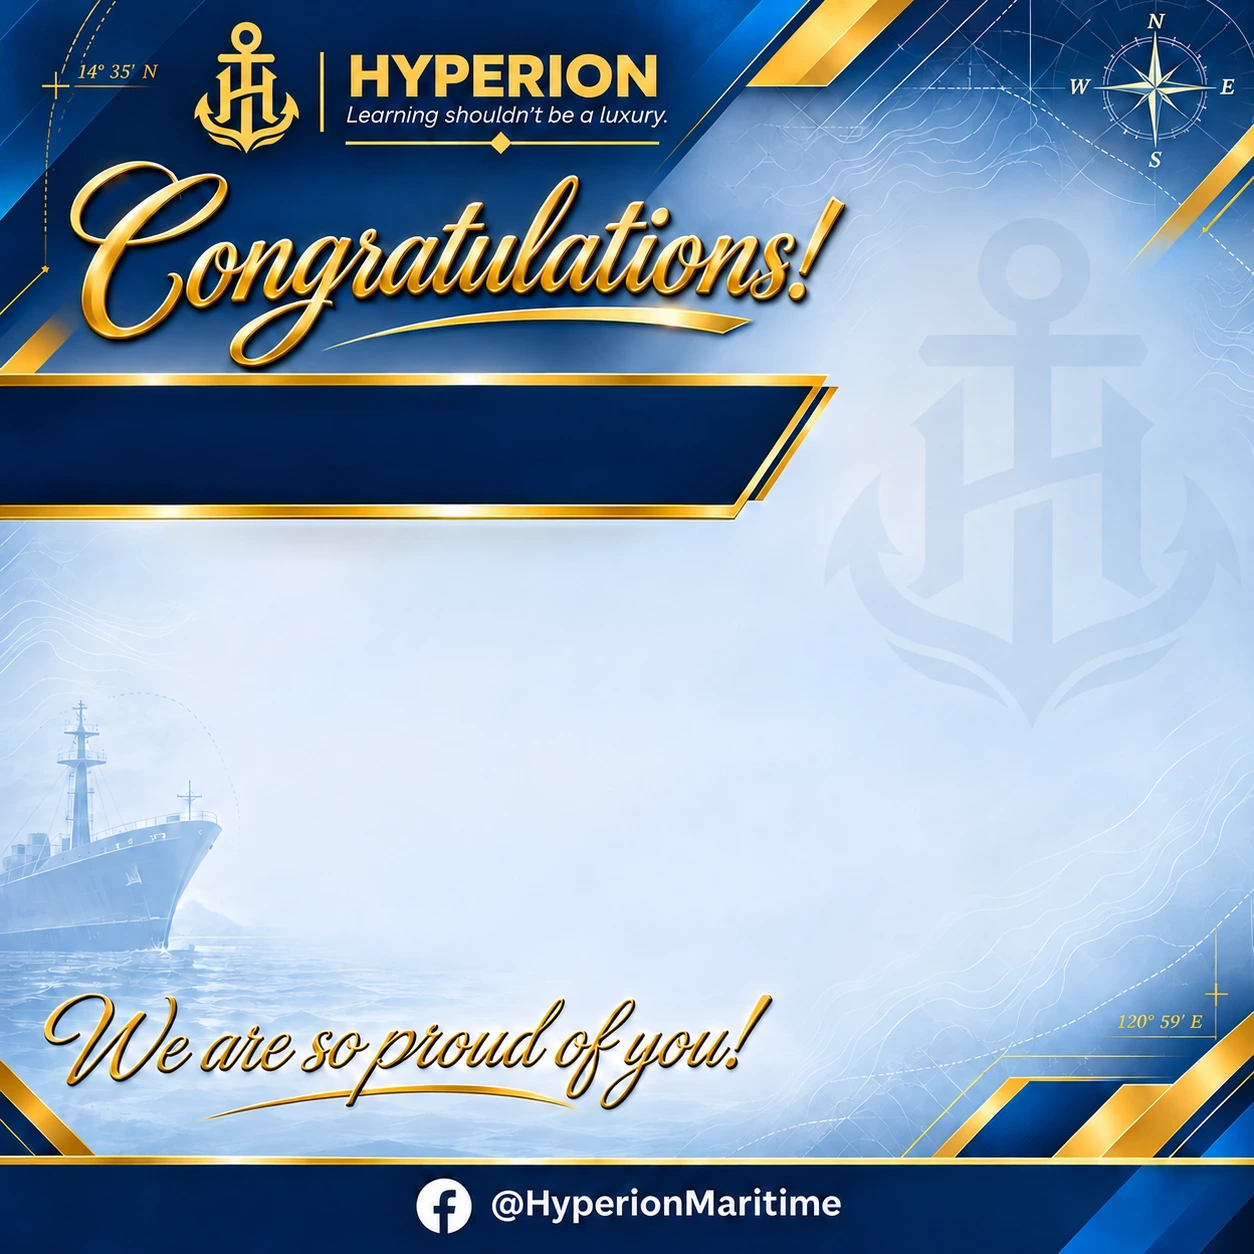
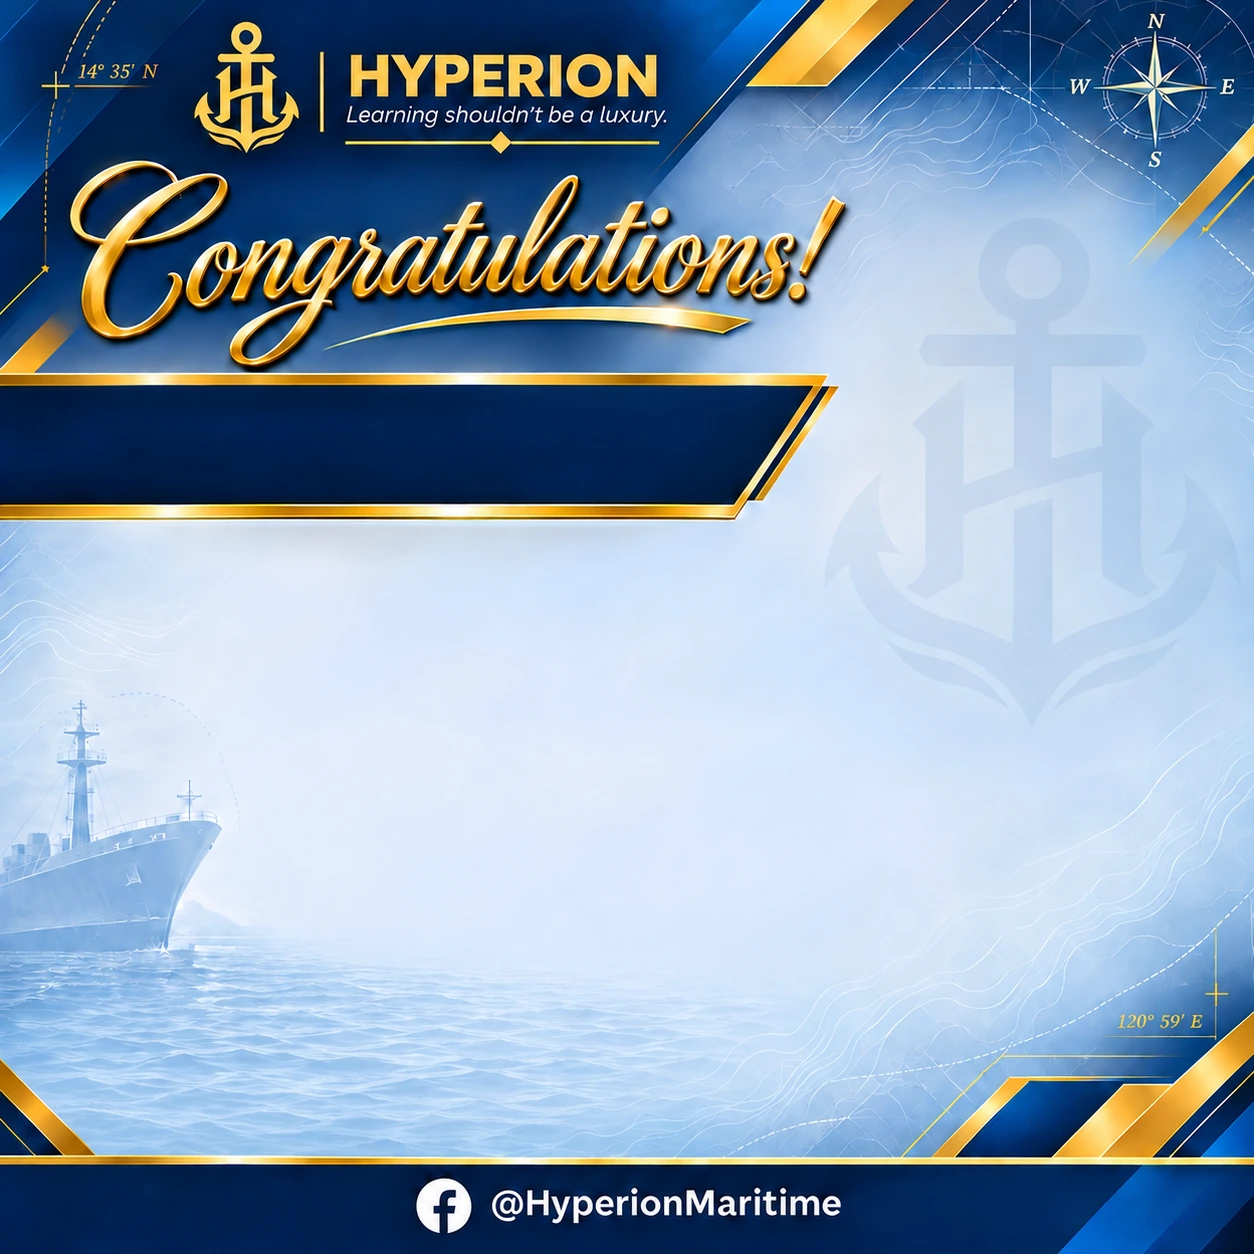
Match the poster portrait fade, closing script and footer to the reference

diff --git a/src/lib/renderPoster.ts b/src/lib/renderPoster.ts
@@ -19,13 +19,26 @@ export type PosterContent = {
   yOffsetPercent: number
 }
 
-export function loadPosterArtwork(): Promise<HTMLImageElement> {
+export type PosterArtwork = {
+  background: HTMLImageElement
+  closingMessage: HTMLImageElement
+}
+
+function loadArtworkImage(src: string): Promise<HTMLImageElement> {
   return new Promise((resolve, reject) => {
     const image = new Image()
     image.onload = () => resolve(image)
     image.onerror = () => reject(new Error('Could not load Hyperion artwork. Refresh the page.'))
-    image.src = '/posters/hyperion-poster-artwork.webp'
+    image.src = src
   })
+}
+
+export async function loadPosterArtwork(): Promise<PosterArtwork> {
+  const [background, closingMessage] = await Promise.all([
+    loadArtworkImage('/posters/hyperion-poster-artwork.webp'),
+    loadArtworkImage('/posters/hyperion-poster-closing-message.webp'),
+  ])
+  return { background, closingMessage }
 }
 
 function drawFittedText(ctx: CanvasRenderingContext2D, text: string, options: {
@@ -154,6 +167,11 @@ function drawPortrait(ctx: CanvasRenderingContext2D, portrait: HTMLImageElement,
   addPortraitFeather(lowerFade, false)
   layerCtx.fillStyle = lowerFade
   layerCtx.fillRect(0, 0, ART_SIZE, ART_SIZE)
+  // Follow the diagonal of the lower-right trim as the shirt meets the sea.
+  const cornerFade = layerCtx.createLinearGradient(1060, 1060, 1118, 1118)
+  addPortraitFeather(cornerFade, false)
+  layerCtx.fillStyle = cornerFade
+  layerCtx.fillRect(0, 0, ART_SIZE, ART_SIZE)
   layerCtx.globalCompositeOperation = 'source-over'
   ctx.drawImage(layer, 0, 0)
 }
@@ -191,51 +209,55 @@ function drawPosterDividers(ctx: CanvasRenderingContext2D) {
 }
 
 function drawFooter(ctx: CanvasRenderingContext2D) {
+  const top = 1166
+  const centerY = 1210
   ctx.fillStyle = '#071d3d'
-  ctx.fillRect(0, 1166, ART_SIZE, 88)
-  ctx.fillStyle = '#f3bc4a'
-  ctx.fillRect(0, 1161, ART_SIZE, 5)
+  ctx.fillRect(0, top, ART_SIZE, ART_SIZE - top)
+  const divider = ctx.createLinearGradient(0, top - 5, 0, top)
+  divider.addColorStop(0, '#fff1ba')
+  divider.addColorStop(0.5, '#e8ae36')
+  divider.addColorStop(1, '#a96c10')
+  ctx.fillStyle = divider
+  ctx.fillRect(0, top - 5, ART_SIZE, 5)
 
-  // White Facebook badge and website globe, matching the supplied final sample.
   ctx.beginPath()
-  ctx.arc(85, 1212, 24, 0, Math.PI * 2)
+  ctx.arc(135, centerY, 27, 0, Math.PI * 2)
   ctx.fillStyle = '#fff'
   ctx.fill()
   ctx.fillStyle = '#071d3d'
   ctx.textAlign = 'center'
-  ctx.font = 'bold 44px Arial, sans-serif'
-  ctx.fillText('f', 85, 1230)
+  ctx.font = 'bold 46px Arial, sans-serif'
+  ctx.fillText('f', 135, centerY + 19)
+
+  const globeX = 711
+  ctx.strokeStyle = '#fff'
+  ctx.lineWidth = 2.7
+  ctx.beginPath()
+  ctx.arc(globeX, centerY, 25, 0, Math.PI * 2)
+  ctx.stroke()
+  ctx.beginPath()
+  ctx.ellipse(globeX, centerY, 11, 25, 0, 0, Math.PI * 2)
+  ctx.stroke()
+  ctx.fillStyle = '#fff'
+  ctx.fillRect(globeX - 21, centerY - 8, 42, 16)
+  ctx.fillStyle = '#071d3d'
+  ctx.font = 'bold 11px Arial, sans-serif'
+  ctx.fillText('WWW', globeX, centerY + 4)
 
   ctx.fillStyle = '#fff'
   ctx.textAlign = 'left'
-  ctx.font = 'bold 30px Arial, sans-serif'
-  ctx.fillText('@HyperionMaritime', 123, 1224)
-
-  const globeX = 710
-  const globeY = 1212
-  ctx.strokeStyle = '#fff'
-  ctx.lineWidth = 3
-  ctx.beginPath()
-  ctx.arc(globeX, globeY, 22, 0, Math.PI * 2)
-  ctx.ellipse(globeX, globeY, 9, 22, 0, 0, Math.PI * 2)
-  ctx.moveTo(globeX - 20, globeY)
-  ctx.lineTo(globeX + 20, globeY)
-  ctx.moveTo(globeX - 17, globeY - 11)
-  ctx.lineTo(globeX + 17, globeY - 11)
-  ctx.moveTo(globeX - 17, globeY + 11)
-  ctx.lineTo(globeX + 17, globeY + 11)
-  ctx.stroke()
-  ctx.font = 'bold 30px Arial, sans-serif'
-  ctx.fillText('HyperionMaritime.org', 749, 1224)
+  ctx.font = 'bold 33px Arial, sans-serif'
+  ctx.fillText('@HyperionMaritime', 180, centerY + 11)
+  ctx.fillText('HyperionMaritime.org', 751, centerY + 11)
 }
 
-export function renderPoster(canvas: HTMLCanvasElement, artwork: HTMLImageElement, data: PosterContent) {
+export function renderPoster(canvas: HTMLCanvasElement, artwork: PosterArtwork, data: PosterContent) {
   canvas.width = POSTER_EXPORT_SIZE
   canvas.height = POSTER_EXPORT_SIZE
   const ctx = canvas.getContext('2d')
   if (!ctx) throw new Error('Canvas is unavailable in this browser.')
   ctx.setTransform(POSTER_EXPORT_SIZE / ART_SIZE, 0, 0, POSTER_EXPORT_SIZE / ART_SIZE, 0, 0)
-  ctx.drawImage(artwork, 0, 0, ART_SIZE, ART_SIZE)
+  ctx.drawImage(artwork.background, 0, 0, ART_SIZE, ART_SIZE)
   drawPosterDividers(ctx)
   if (data.portrait) drawPortrait(ctx, data.portrait, data)
 
@@ -248,6 +270,9 @@ export function renderPoster(canvas: HTMLCanvasElement, artwork: HTMLImageElemen
   drawFittedText(ctx, data.school.toUpperCase(), { ...POSTER_TEXT_LAYOUT.school, family: 'Georgia, serif', color: '#082143', weight: 'bold', italic: true })
   drawFittedText(ctx, data.company.toUpperCase(), { ...POSTER_TEXT_LAYOUT.company, family: 'Georgia, serif', color: '#082143', italic: true })
 
+  const closingWidth = 850
+  const closingHeight = closingWidth * artwork.closingMessage.naturalHeight / artwork.closingMessage.naturalWidth
+  ctx.drawImage(artwork.closingMessage, 96, 975, closingWidth, closingHeight)
   drawFooter(ctx)
 }
 

diff --git a/src/screens/AdminPosterGeneratorScreen.tsx b/src/screens/AdminPosterGeneratorScreen.tsx
@@ -6,7 +6,7 @@ import { supabase } from '../lib/supabase'
 import { POSTER_TRACKS, formatPosterDate, fullPosterName } from '../lib/posterTracks.mjs'
 import type { PortraitFrame } from '../lib/posterAlpha.mjs'
 import { preparePortraitAssets, removePortraitBackground } from '../lib/posterPortrait'
-import { downloadPoster, loadPosterArtwork, renderPoster } from '../lib/renderPoster'
+import { downloadPoster, loadPosterArtwork, renderPoster, type PosterArtwork } from '../lib/renderPoster'
 import './AdminPosterGeneratorScreen.css'
 
 function localDate() {
@@ -30,7 +30,7 @@ export default function AdminPosterGeneratorScreen() {
   const [date, setDate] = useState(localDate)
   const [school, setSchool] = useState('')
   const [company, setCompany] = useState('')
-  const [artwork, setArtwork] = useState<HTMLImageElement | null>(null)
+  const [artwork, setArtwork] = useState<PosterArtwork | null>(null)
   const [originalPhoto, setOriginalPhoto] = useState<HTMLImageElement | null>(null)
   const [cutoutPhoto, setCutoutPhoto] = useState<{ image: HTMLImageElement; frame: PortraitFrame } | null>(null)
   const [useOriginal, setUseOriginal] = useState(false)
